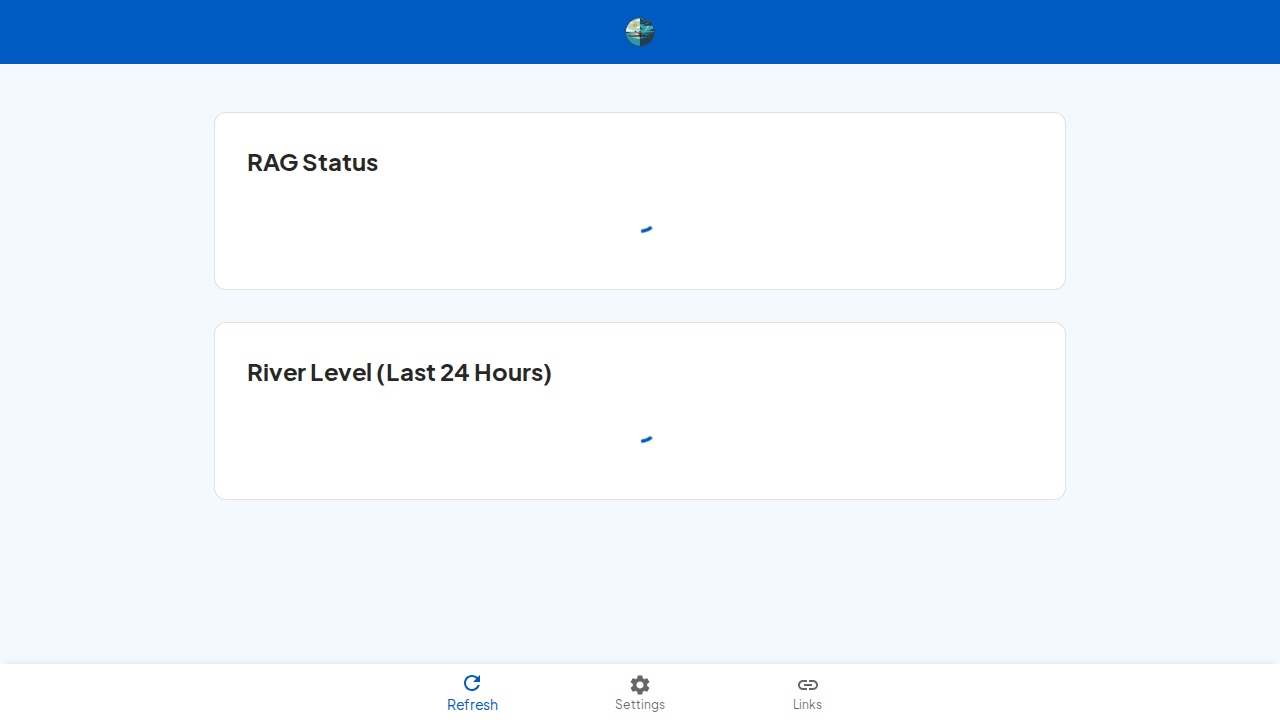
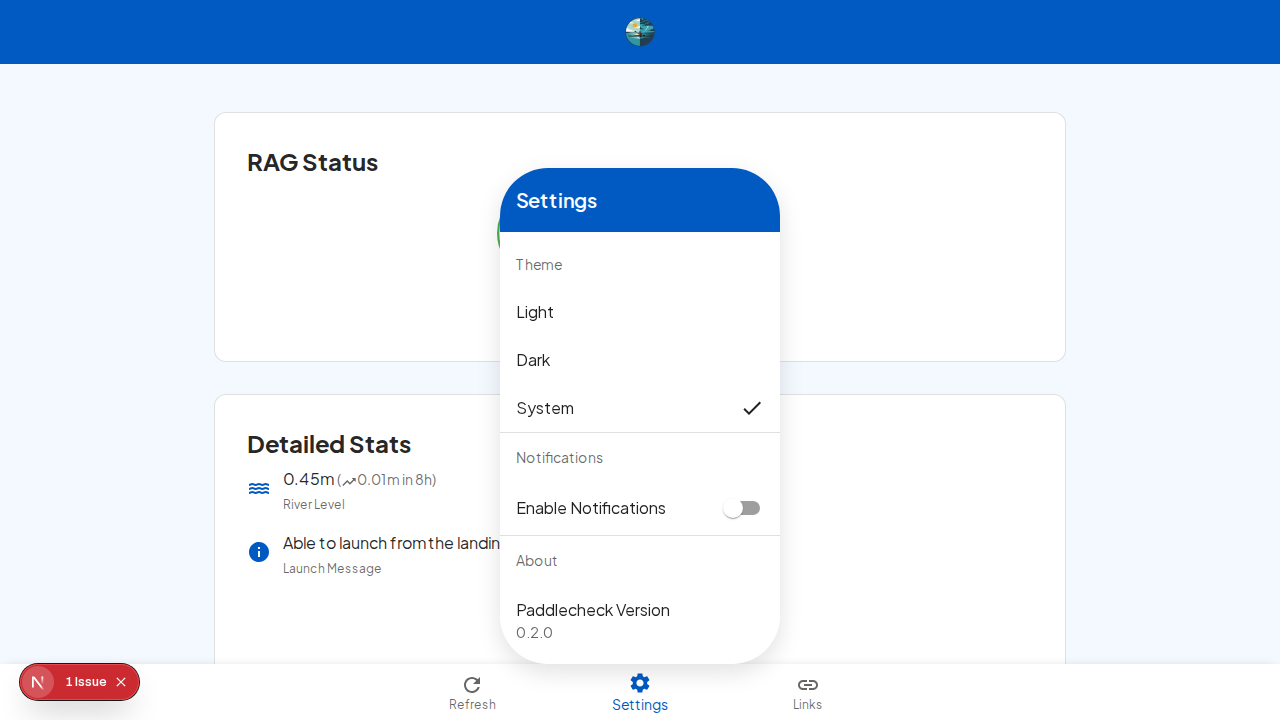
Refactor Settings to Modal and Update RAG Status UI
- Refactored the full-screen settings dialog into a popover modal, anchored to the settings button in the bottom navigation bar, to provide a more modern and less disruptive user experience.
- Updated the RAG (Red-Amber-Green) status display based on user feedback:
  - Removed the "Unknown" status from the UI.
  - Replaced the "Red" status icon with the "Flood" icon for better representation.
  - Implemented a special override UI for the "No Paddling" status, which now displays as a standalone prominent message instead of being part of the traffic light indicator.

This commit addresses all the user's requirements for improving the settings and RAG status components.

diff --git a/components/SettingsModal.tsx b/components/SettingsModal.tsx
@@ -2,10 +2,7 @@
 
 import React from 'react';
 import {
-  Dialog,
-  AppBar,
-  Toolbar,
-  IconButton,
+  Popover,
   Typography,
   List,
   ListItem,
@@ -13,29 +10,23 @@ import {
   ListSubheader,
   Switch,
   Divider,
+  Box,
 } from '@mui/material';
-import CloseIcon from '@mui/icons-material/Close';
-import Slide from '@mui/material/Slide';
-import { TransitionProps } from '@mui/material/transitions';
 import { useAppTheme } from '@/lib/ThemeContext';
 import CheckIcon from '@mui/icons-material/Check';
 import { useEffect, useState } from 'react';
 
-const Transition = React.forwardRef(function Transition(
-  props: TransitionProps & {
-    children: React.ReactElement;
-  },
-  ref: React.Ref<unknown>
-) {
-  return <Slide direction="up" ref={ref} {...props} />;
-});
-
 interface SettingsModalProps {
   open: boolean;
+  anchorEl: null | HTMLElement;
   onClose: () => void;
 }
 
-const SettingsModal: React.FC<SettingsModalProps> = ({ open, onClose }) => {
+const SettingsModal: React.FC<SettingsModalProps> = ({
+  open,
+  anchorEl,
+  onClose,
+}) => {
   const { themeMode, setThemeMode } = useAppTheme();
   const [notificationsEnabled, setNotificationsEnabled] = useState(false);
 
@@ -63,38 +54,40 @@ const SettingsModal: React.FC<SettingsModalProps> = ({ open, onClose }) => {
   };
 
   return (
-    <Dialog
-      fullScreen
+    <Popover
       open={open}
+      anchorEl={anchorEl}
       onClose={onClose}
-      TransitionComponent={Transition}
+      anchorOrigin={{
+        vertical: 'top',
+        horizontal: 'center',
+      }}
+      transformOrigin={{
+        vertical: 'bottom',
+        horizontal: 'center',
+      }}
+      PaperProps={{
+        sx: {
+          borderRadius: 4,
+          boxShadow: '0px 8px 24px rgba(0,0,0,0.12)',
+          backgroundColor: 'background.paper',
+        },
+      }}
     >
-      <AppBar sx={{ position: 'relative' }}>
-        <Toolbar>
-          <IconButton
-            edge="start"
-            color="inherit"
-            onClick={onClose}
-            aria-label="close"
-          >
-            <CloseIcon />
-          </IconButton>
-          <Typography sx={{ ml: 2, flex: 1 }} variant="h6" component="div">
-            Settings
-          </Typography>
-        </Toolbar>
-      </AppBar>
-      <List>
+      <Box sx={{ p: 2, backgroundColor: 'primary.main', color: 'primary.contrastText' }}>
+        <Typography variant="h6">Settings</Typography>
+      </Box>
+      <List sx={{ minWidth: 280 }}>
         <ListSubheader>Theme</ListSubheader>
-        <ListItem onClick={() => setThemeMode('light')}>
+        <ListItem button onClick={() => setThemeMode('light')}>
           <ListItemText primary="Light" />
           {themeMode === 'light' && <CheckIcon />}
         </ListItem>
-        <ListItem onClick={() => setThemeMode('dark')}>
+        <ListItem button onClick={() => setThemeMode('dark')}>
           <ListItemText primary="Dark" />
           {themeMode === 'dark' && <CheckIcon />}
         </ListItem>
-        <ListItem onClick={() => setThemeMode('system')}>
+        <ListItem button onClick={() => setThemeMode('system')}>
           <ListItemText primary="System" />
           {themeMode === 'system' && <CheckIcon />}
         </ListItem>
@@ -124,7 +117,7 @@ const SettingsModal: React.FC<SettingsModalProps> = ({ open, onClose }) => {
           <ListItemText primary="Paddlecheck Version" secondary="0.2.0" />
         </ListItem>
       </List>
-    </Dialog>
+    </Popover>
   );
 };
 

diff --git a/components/BottomNavBar.tsx b/components/BottomNavBar.tsx
@@ -14,7 +14,8 @@ import LinksPopover from './LinksPopover';
 
 const BottomNavBar = () => {
   const [value, setValue] = useState(0);
-  const [settingsOpen, setSettingsOpen] = useState(false);
+  const [settingsAnchorEl, setSettingsAnchorEl] =
+    useState<null | HTMLElement>(null);
   const [linksAnchorEl, setLinksAnchorEl] = useState<null | HTMLElement>(null);
 
   const handleLinksClick = (event: React.MouseEvent<HTMLElement>) => {
@@ -25,21 +26,23 @@ const BottomNavBar = () => {
     setLinksAnchorEl(null);
   };
 
+  const handleSettingsClick = (event: React.MouseEvent<HTMLElement>) => {
+    setSettingsAnchorEl(event.currentTarget);
+  };
+
+  const handleSettingsClose = () => {
+    setSettingsAnchorEl(null);
+  };
+
   const linksOpen = Boolean(linksAnchorEl);
+  const settingsOpen = Boolean(settingsAnchorEl);
 
   const handleChange = (event: React.SyntheticEvent, newValue: number) => {
     setValue(newValue);
     if (newValue === 0) {
       window.location.reload();
-    } else if (newValue === 1) {
-      setSettingsOpen(true);
     }
-    // Note: The Links popover is now handled by its own click handler
-    // on the BottomNavigationAction component
-  };
-
-  const handleSettingsClose = () => {
-    setSettingsOpen(false);
+    // Note: Settings and Links popovers are now handled by their own click handlers
   };
 
   return (
@@ -62,6 +65,7 @@ const BottomNavBar = () => {
           <BottomNavigationAction
             label="Settings"
             icon={<SettingsIcon />}
+            onClick={handleSettingsClick}
             sx={{
               '&.Mui-selected': {
                 color: (theme) =>
@@ -82,7 +86,11 @@ const BottomNavBar = () => {
           />
         </BottomNavigation>
       </Paper>
-      <SettingsModal open={settingsOpen} onClose={handleSettingsClose} />
+      <SettingsModal
+        open={settingsOpen}
+        anchorEl={settingsAnchorEl}
+        onClose={handleSettingsClose}
+      />
       <LinksPopover
         open={linksOpen}
         anchorEl={linksAnchorEl}

diff --git a/components/StatusCard.tsx b/components/StatusCard.tsx
@@ -8,8 +8,9 @@ import {
   Box,
   CircularProgress,
 } from '@mui/material';
-import { KayakConditions } from '@/types';
+import { KayakConditions, Status } from '@/types';
 import TrafficLight from './TrafficLight';
+import { ragStatus } from '@/lib/rag';
 
 interface StatusCardProps {
   conditions: KayakConditions | null;
@@ -29,6 +30,30 @@ const StatusCard: React.FC<StatusCardProps> = ({
       );
     }
     if (conditions) {
+      if (conditions.overallStatus === 'No Paddling') {
+        const statusInfo = ragStatus['No Paddling'];
+        const Icon = statusInfo.icon;
+        return (
+          <Box
+            sx={{
+              display: 'flex',
+              flexDirection: 'column',
+              alignItems: 'center',
+              justifyContent: 'center',
+              mt: 2,
+              p: 2,
+              borderRadius: 4,
+              backgroundColor: statusInfo.backgroundColor,
+              border: `2px solid ${statusInfo.color}`,
+            }}
+          >
+            <Icon sx={{ fontSize: 40, color: statusInfo.color, mb: 1 }} />
+            <Typography variant="h6" sx={{ color: statusInfo.color }}>
+              No Paddling
+            </Typography>
+          </Box>
+        );
+      }
       return (
         <Box sx={{ mt: 2, display: 'flex', justifyContent: 'center' }}>
           <TrafficLight status={conditions.overallStatus} />

diff --git a/lib/rag.ts b/lib/rag.ts
@@ -26,11 +26,10 @@ export const levelDescriptions: Record<number, string> = {
 };
 
 import {
-  HelpOutline,
   CheckCircleOutline,
   WarningAmberOutlined,
-  CancelOutlined,
   DoNotDisturbOutlined,
+  Flood,
 } from "@mui/icons-material";
 
 export const ragStatus: Record<
@@ -42,12 +41,6 @@ export const ragStatus: Record<
     backgroundColor: string;
   }
 > = {
-  Unknown: {
-    color: "#9E9E9E",
-    emoji: "🤷",
-    icon: HelpOutline,
-    backgroundColor: "#F5F5F5",
-  },
   "Light Green": {
     color: "#4CAF50",
     emoji: "✅",
@@ -69,7 +62,7 @@ export const ragStatus: Record<
   Red: {
     color: "#F44336",
     emoji: "❌",
-    icon: CancelOutlined,
+    icon: Flood,
     backgroundColor: "#FFEBEE",
   },
   "No Paddling": {
@@ -114,5 +107,5 @@ export const calculateFinalRagStatus = (
   conditions: KayakConditions
 ): Status => {
   // Placeholder function - just returns the initial status for now
-  return conditions.initialStatus || "Unknown";
+  return conditions.initialStatus || "Light Green";
 };

diff --git a/components/TrafficLight.tsx b/components/TrafficLight.tsx
@@ -11,7 +11,12 @@ interface TrafficLightProps {
 
 const TrafficLight: React.FC<TrafficLightProps> = ({ status }) => {
   const theme = useTheme();
-  const statuses = Object.keys(ragStatus) as Status[];
+  const statuses: Status[] = [
+    'Light Green',
+    'Dark Green',
+    'Amber',
+    'Red',
+  ];
 
   return (
     <Box sx={{ display: 'flex', flexDirection: 'column', alignItems: 'center' }}>

diff --git a/jules-scratch/verification/verify_ui.py b/jules-scratch/verification/verify_ui.py
@@ -1,0 +1,56 @@
+import sys
+from playwright.sync_api import sync_playwright, expect, Page
+
+def run(playwright, action: str, screenshot_path: str):
+    browser = playwright.chromium.launch(headless=True)
+    context = browser.new_context()
+    page = context.new_page()
+
+    try:
+        page.goto("http://localhost:3000")
+
+        # Wait for the initial loading spinner in the StatusCard to disappear
+        status_card = page.get_by_text("RAG Status").locator("..").locator("..")
+        loading_spinner = status_card.locator('span[role="progressbar"]')
+        expect(loading_spinner).to_be_hidden(timeout=15000)
+
+        if action == "settings":
+            # Click the settings button
+            settings_button = page.get_by_role("button", name="Settings")
+            expect(settings_button).to_be_visible()
+            settings_button.click()
+
+            # Wait for the popover to appear and take a screenshot
+            # The Popover component doesn't have a 'dialog' role, so we select by its content
+            settings_header = page.get_by_role("heading", name="Settings")
+            expect(settings_header).to_be_visible()
+            # Screenshot the whole page to capture the popover in context
+            page.screenshot(path=screenshot_path)
+
+        elif action == "status":
+            # Just take a screenshot of the status card area
+            status_card = page.get_by_text("RAG Status").locator("..").locator("..")
+            expect(status_card).to_be_visible()
+            status_card.screenshot(path=screenshot_path)
+
+        else:
+            print(f"Unknown action: {action}")
+
+    except Exception as e:
+        print(f"An error occurred: {e}")
+        # Take a screenshot on error for debugging
+        page.screenshot(path="jules-scratch/verification/error.png")
+
+    finally:
+        browser.close()
+
+if __name__ == "__main__":
+    if len(sys.argv) != 3:
+        print("Usage: python verify_ui.py <action> <screenshot_path>")
+        sys.exit(1)
+
+    action_arg = sys.argv[1]
+    path_arg = sys.argv[2]
+
+    with sync_playwright() as p:
+        run(p, action_arg, path_arg)
